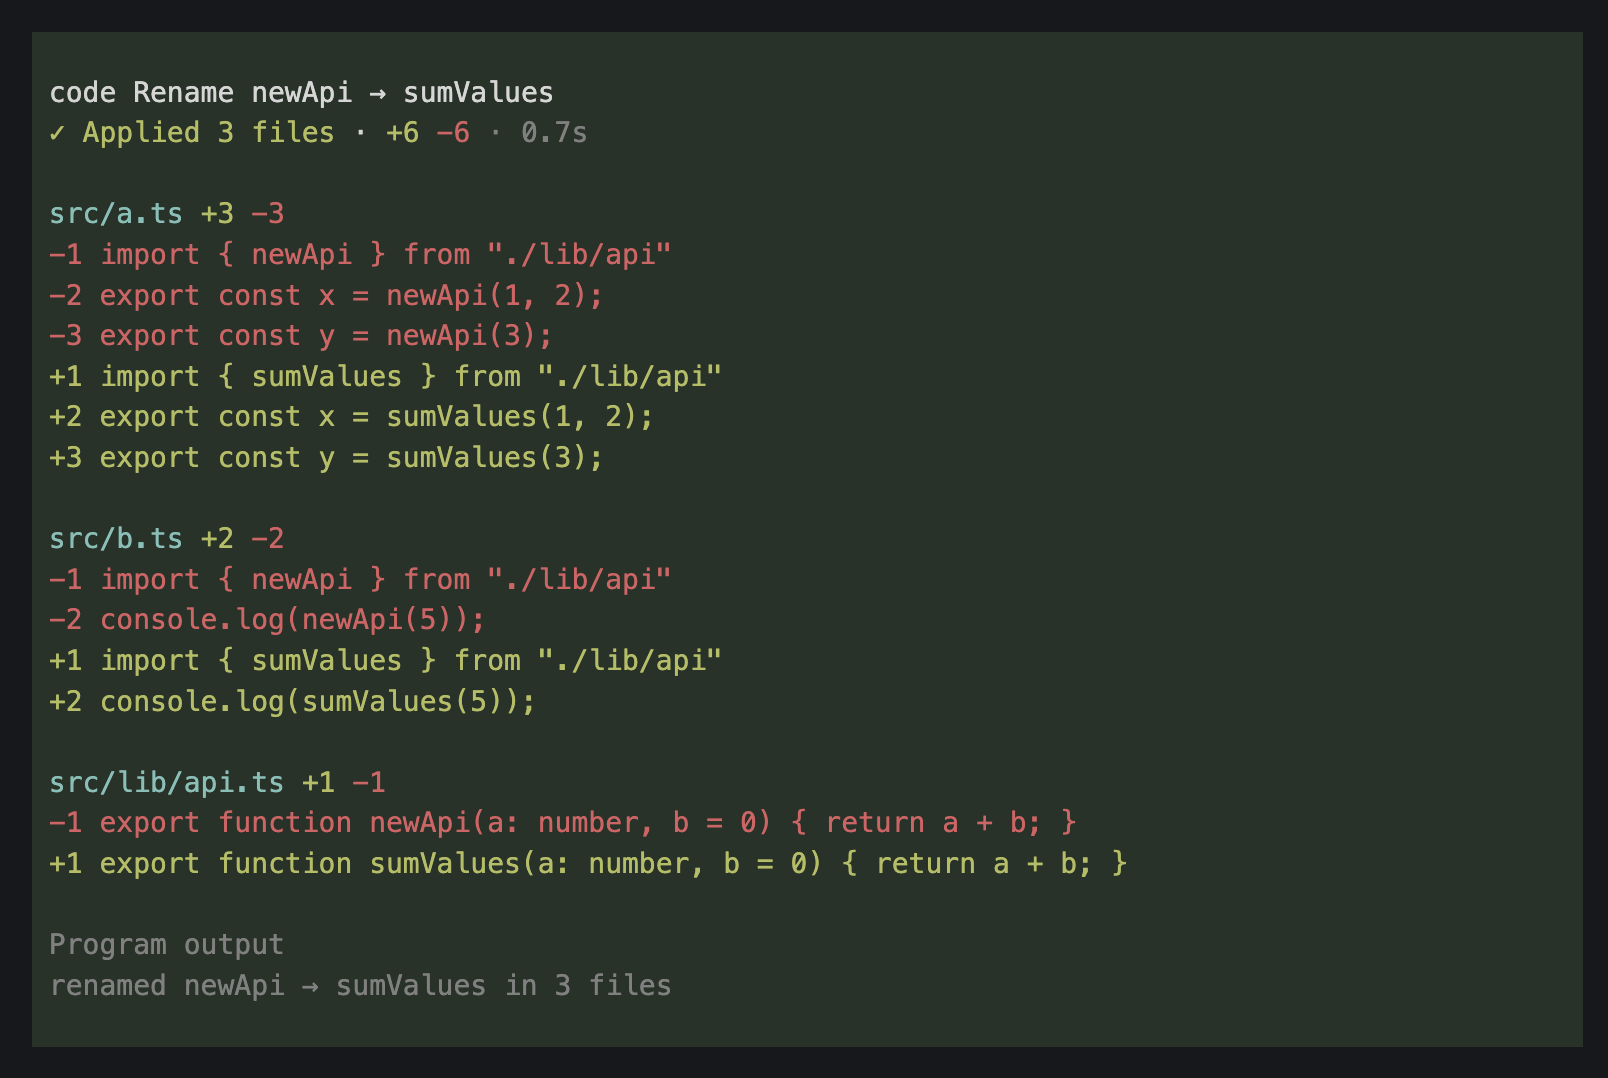
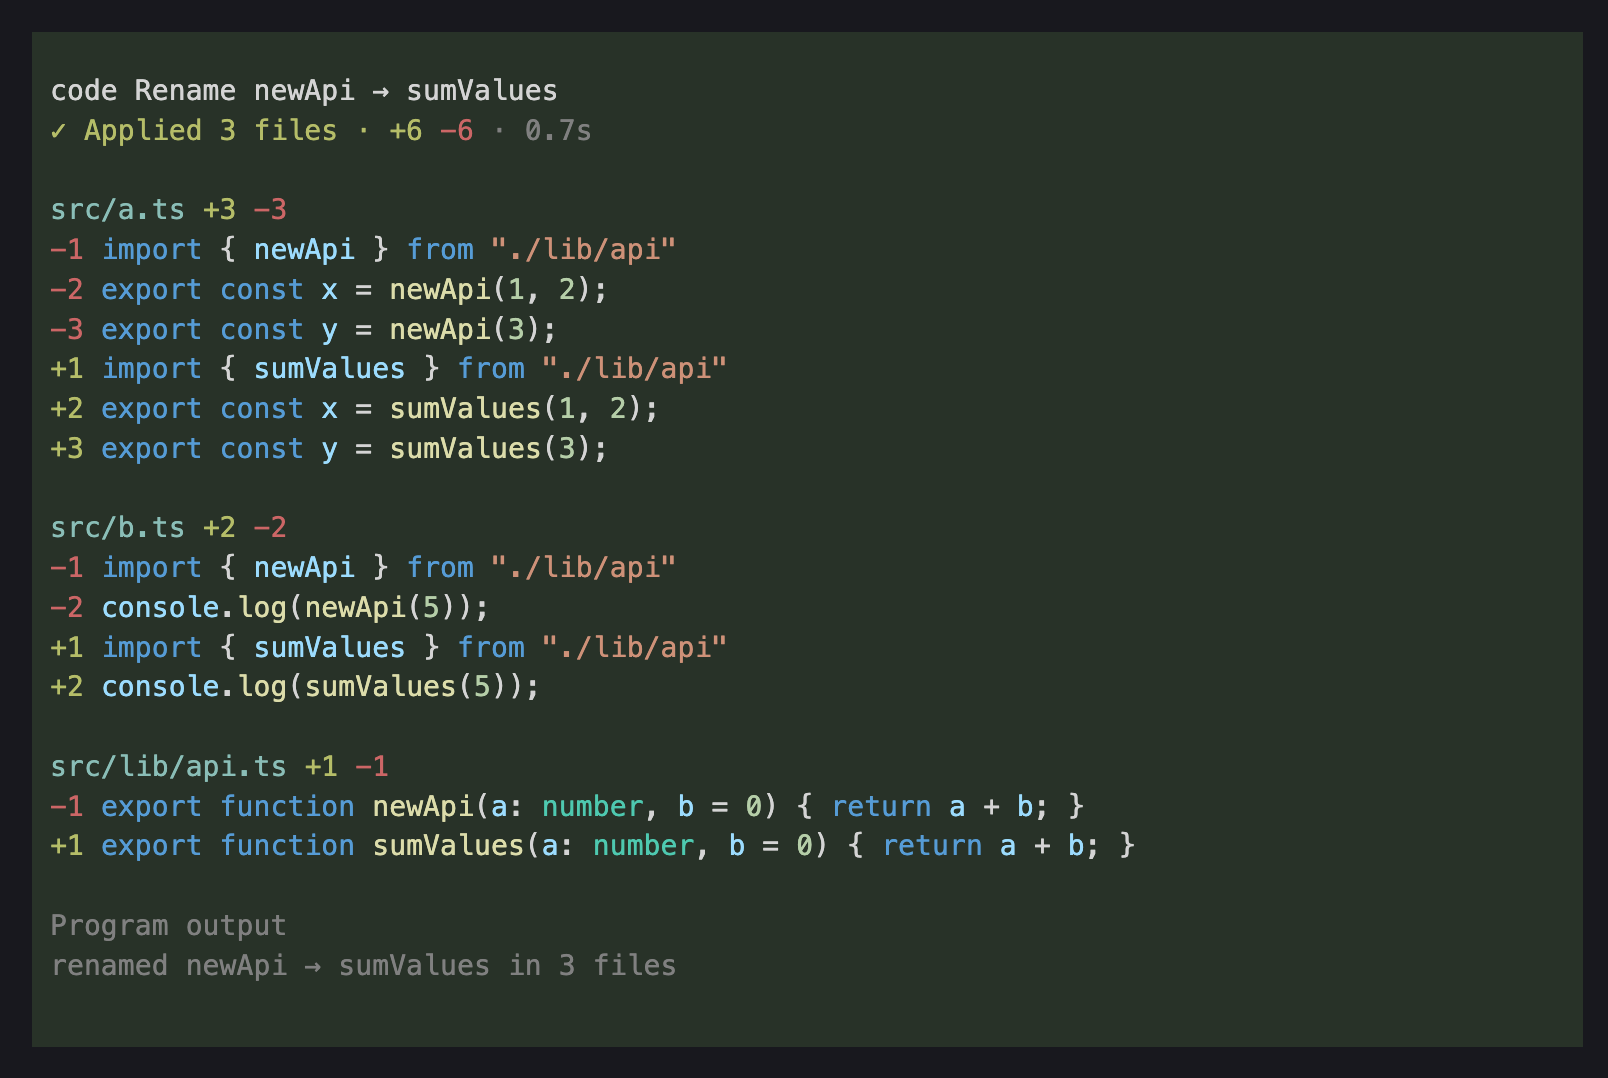
Refresh syntax-highlighted diff screenshot

diff --git a/README.md b/README.md
@@ -1,6 +1,6 @@
 # pi-shorthand
 
-![A code call in Pi: the verdict, then the diff it applied, then the program's output](https://raw.githubusercontent.com/sebinsua/pi-shorthand/main/docs/screenshot.png)
+![A code call in Pi: the verdict, then the diff it applied, then the program's output](docs/screenshot.png)
 
 A [Pi](https://github.com/earendil-works/pi) tool for token-efficient writes. The model writes a whole
 change as one small Bun program, in shorthand, instead of calling `read`, `edit` and `bash` over
